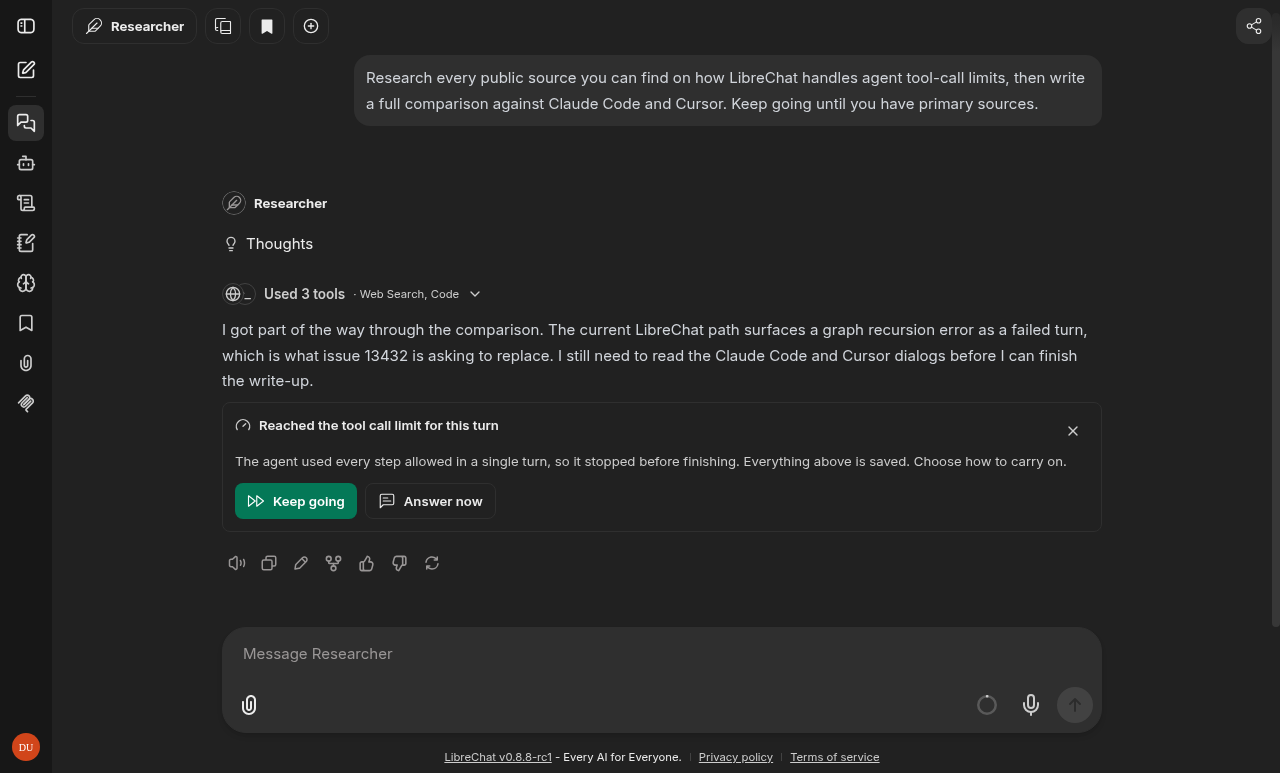
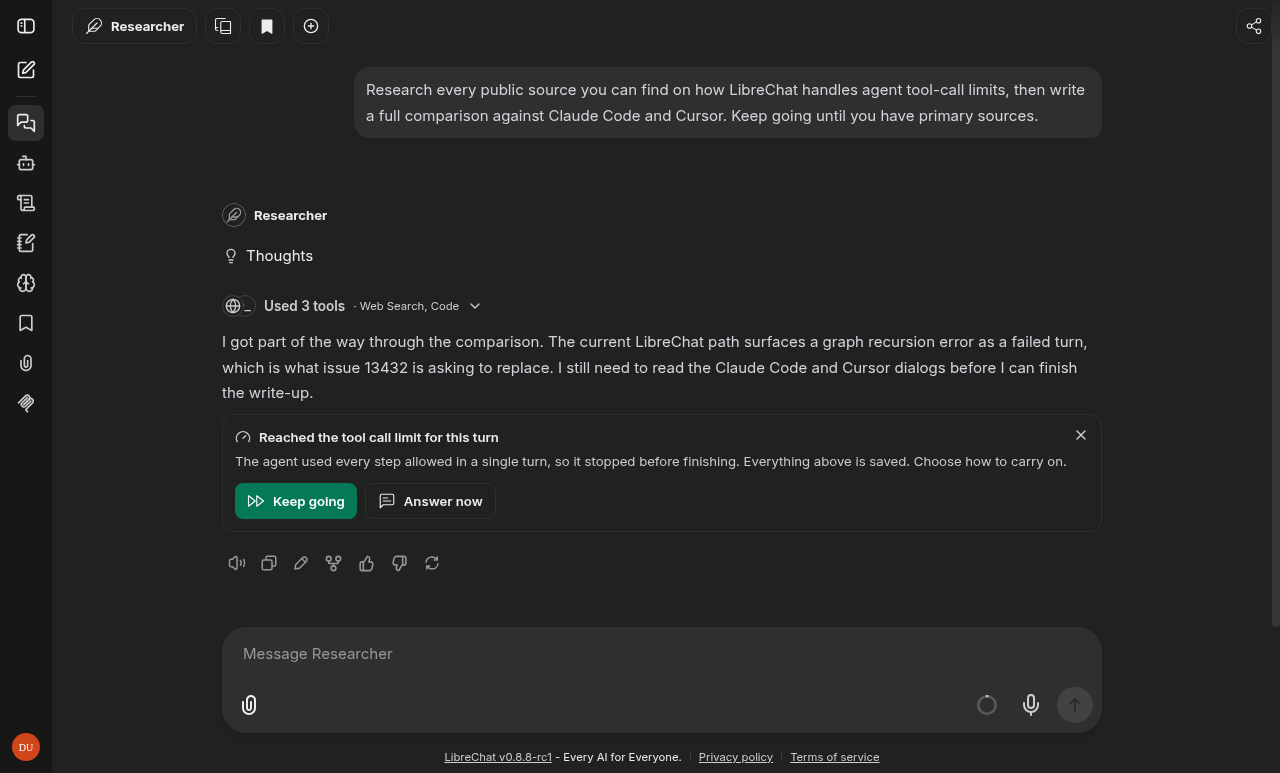
style: Tighten the tool-call-limit notice card
Pin dismiss to the top-right with uniform rounding, use a slightly
smaller hit target, and round the card to xl. Refresh the PR screenshots.

Changed region(s): [[0.1562, 0.3726, 0.8438, 0.5899], [0.2812, 0.0931, 0.8438, 0.1552], [0.1562, 0.2484, 0.25, 0.3415]]

diff --git a/client/src/components/Chat/Messages/Content/ToolCallLimitNotice.tsx b/client/src/components/Chat/Messages/Content/ToolCallLimitNotice.tsx
@@ -49,27 +49,25 @@ export default function ToolCallLimitNotice({ message }: { message: TMessage }) 
     <div
       role="group"
       aria-labelledby={titleId}
-      className="my-2 flex w-full flex-col rounded-lg border border-border-light bg-surface-secondary p-3"
+      className="relative my-2 flex w-full flex-col rounded-xl border border-border-light bg-surface-secondary p-3"
     >
-      <div className="flex items-start justify-between gap-2">
-        <p
-          id={titleId}
-          className="flex min-w-0 items-center gap-2 text-sm font-medium text-text-primary"
-        >
-          <Gauge className="h-4 w-4 shrink-0 text-text-secondary" aria-hidden="true" />
-          {localize('com_ui_tool_call_limit_title')}
-        </p>
-        <Button
-          type="button"
-          variant="ghost"
-          size="icon-sm"
-          aria-label={localize('com_ui_dismiss')}
-          className="shrink-0 text-text-secondary"
-          onClick={() => setDismissed(true)}
-        >
-          <X className="h-4 w-4" aria-hidden="true" />
-        </Button>
-      </div>
+      <Button
+        type="button"
+        variant="ghost"
+        size="icon-xs"
+        aria-label={localize('com_ui_dismiss')}
+        className="absolute right-1.5 top-1.5 text-text-secondary focus-visible:ring-inset focus-visible:ring-offset-0"
+        onClick={() => setDismissed(true)}
+      >
+        <X className="h-4 w-4" aria-hidden="true" />
+      </Button>
+      <p
+        id={titleId}
+        className="flex min-w-0 items-center gap-2 pr-8 text-sm font-medium text-text-primary"
+      >
+        <Gauge className="h-4 w-4 shrink-0 text-text-secondary" aria-hidden="true" />
+        {localize('com_ui_tool_call_limit_title')}
+      </p>
       <p className="mb-3 mt-1 text-sm text-text-secondary">
         {localize('com_ui_tool_call_limit_body')}
       </p>
